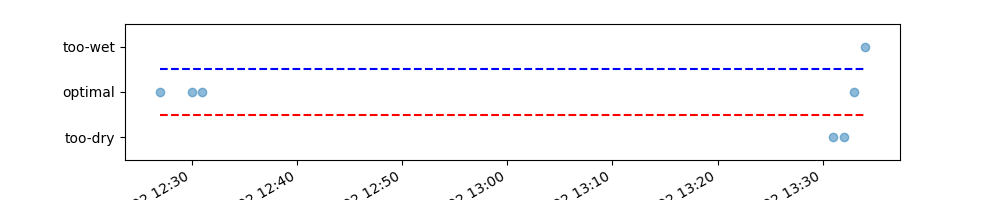
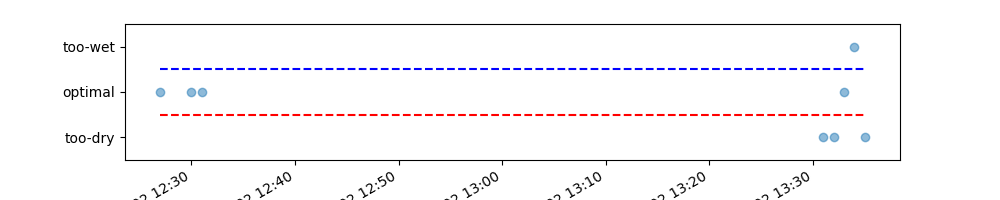
Update

diff --git a/index.html b/index.html
@@ -1,1 +1,1 @@
-<h >Lawn moisture monitor</h><br ></br><h4 >last weeks trend:</h4><img src="moisture-trend.png"></img><br ></br><p >Current moisture content: high</p><p >Suggested action: don't water the lawn</p>
+<h >Lawn moisture monitor</h><br ></br><h4 >last weeks trend:</h4><img src="moisture-trend.png"></img><br ></br><p >Current moisture content: low</p><p >Suggested action: water the lawn</p>
